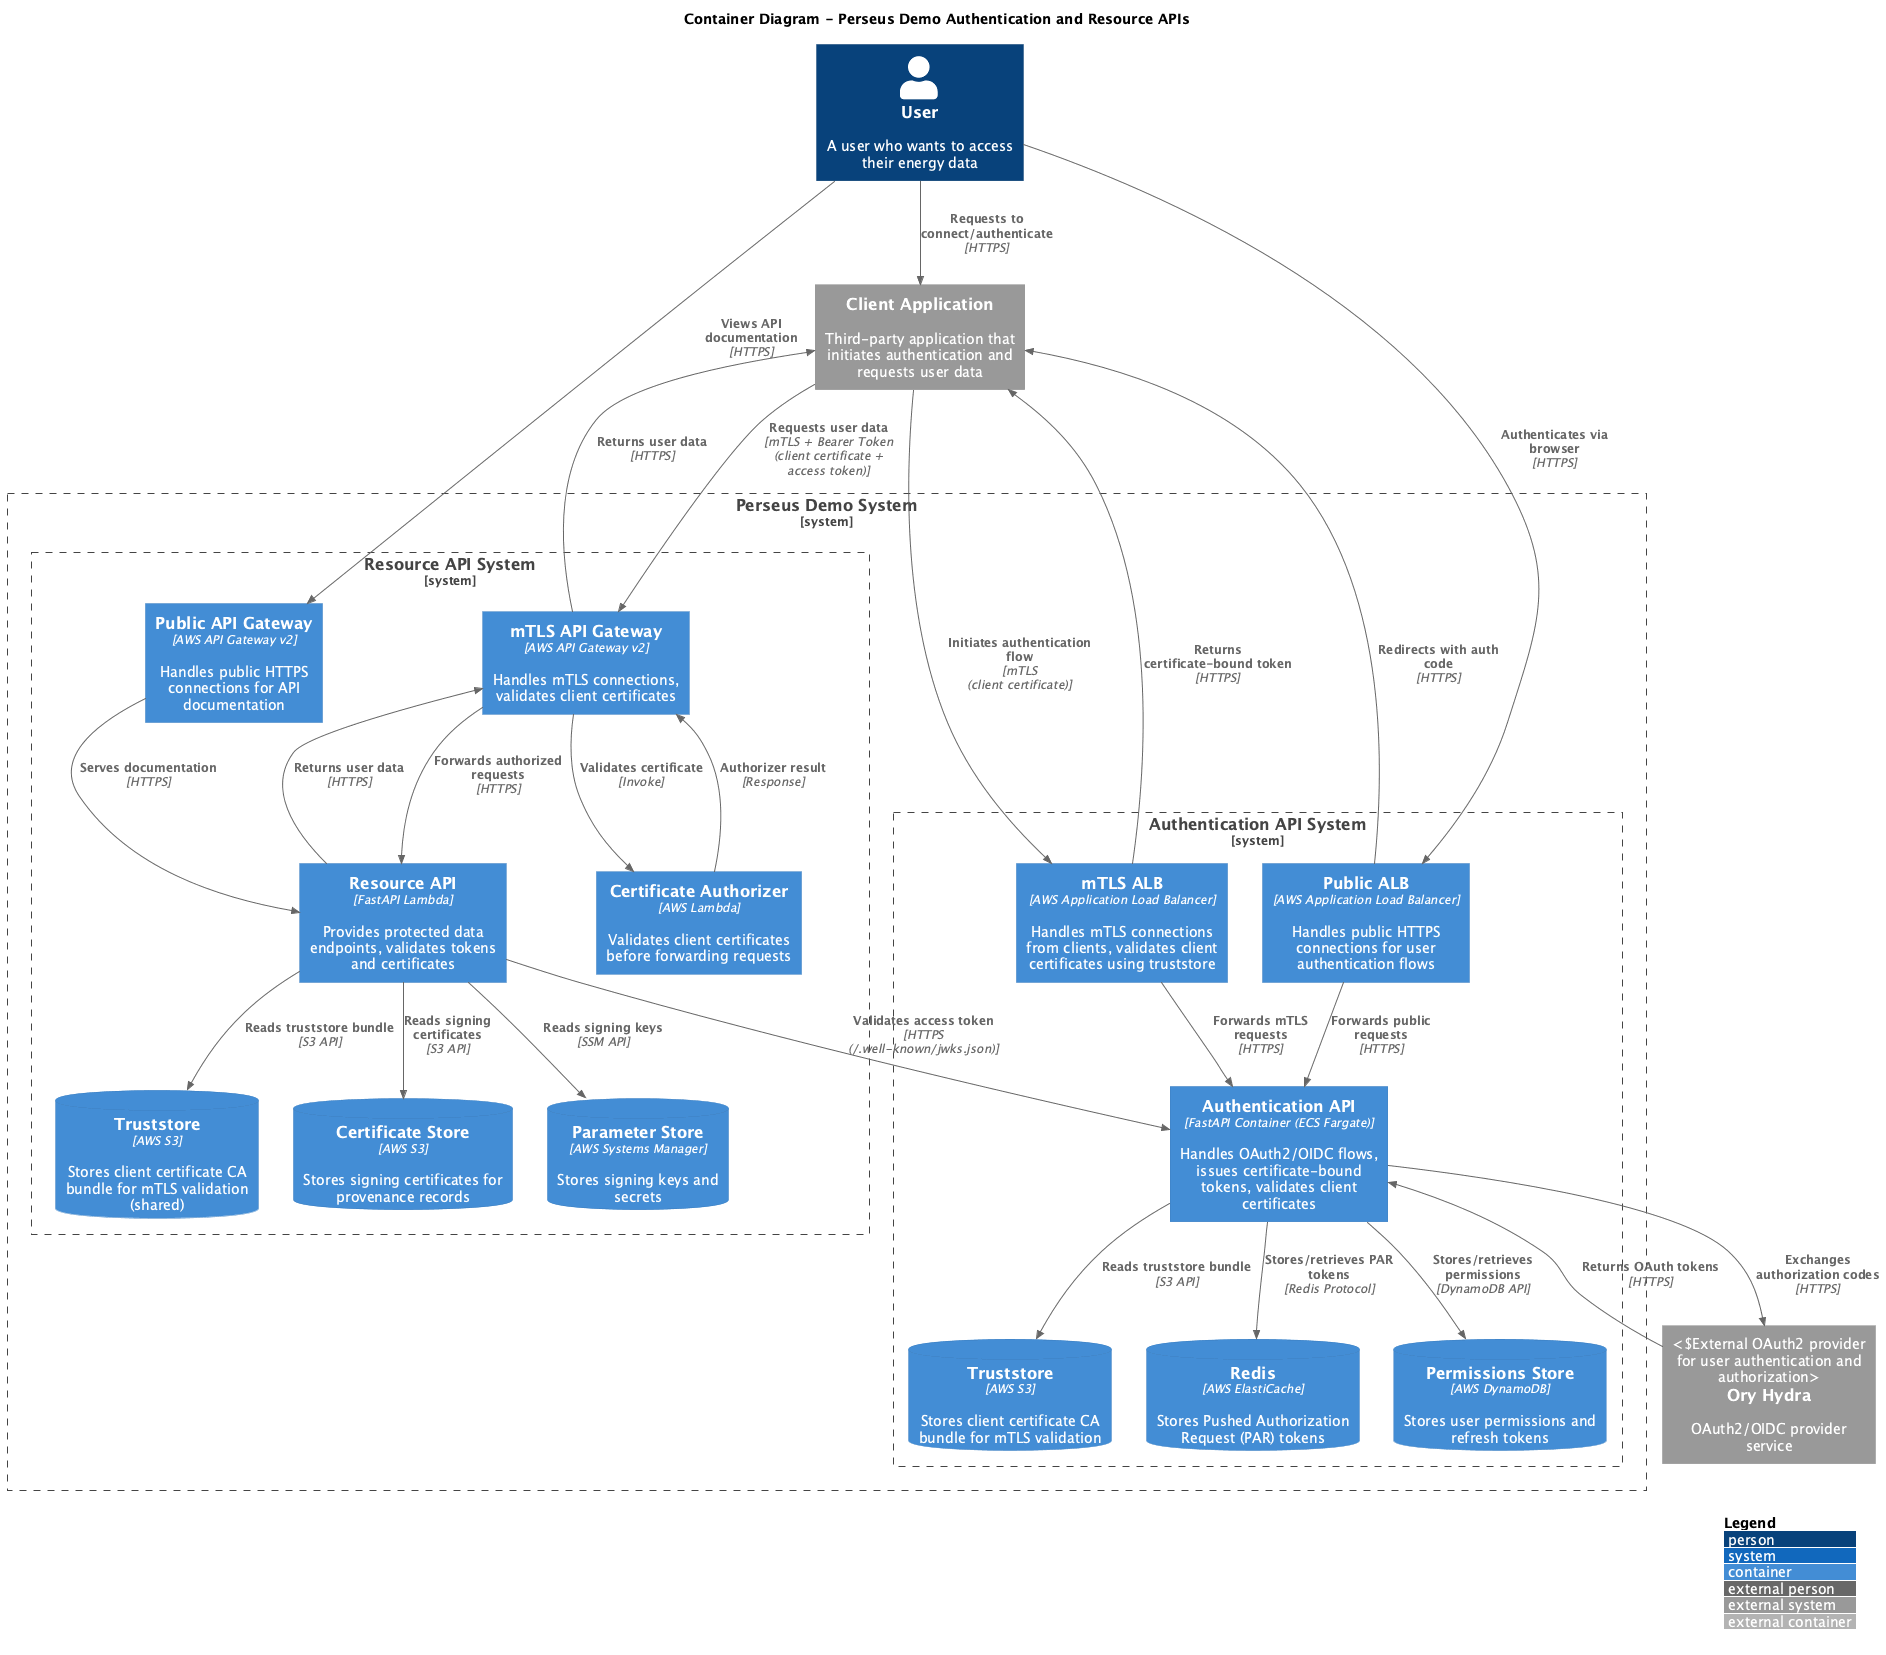
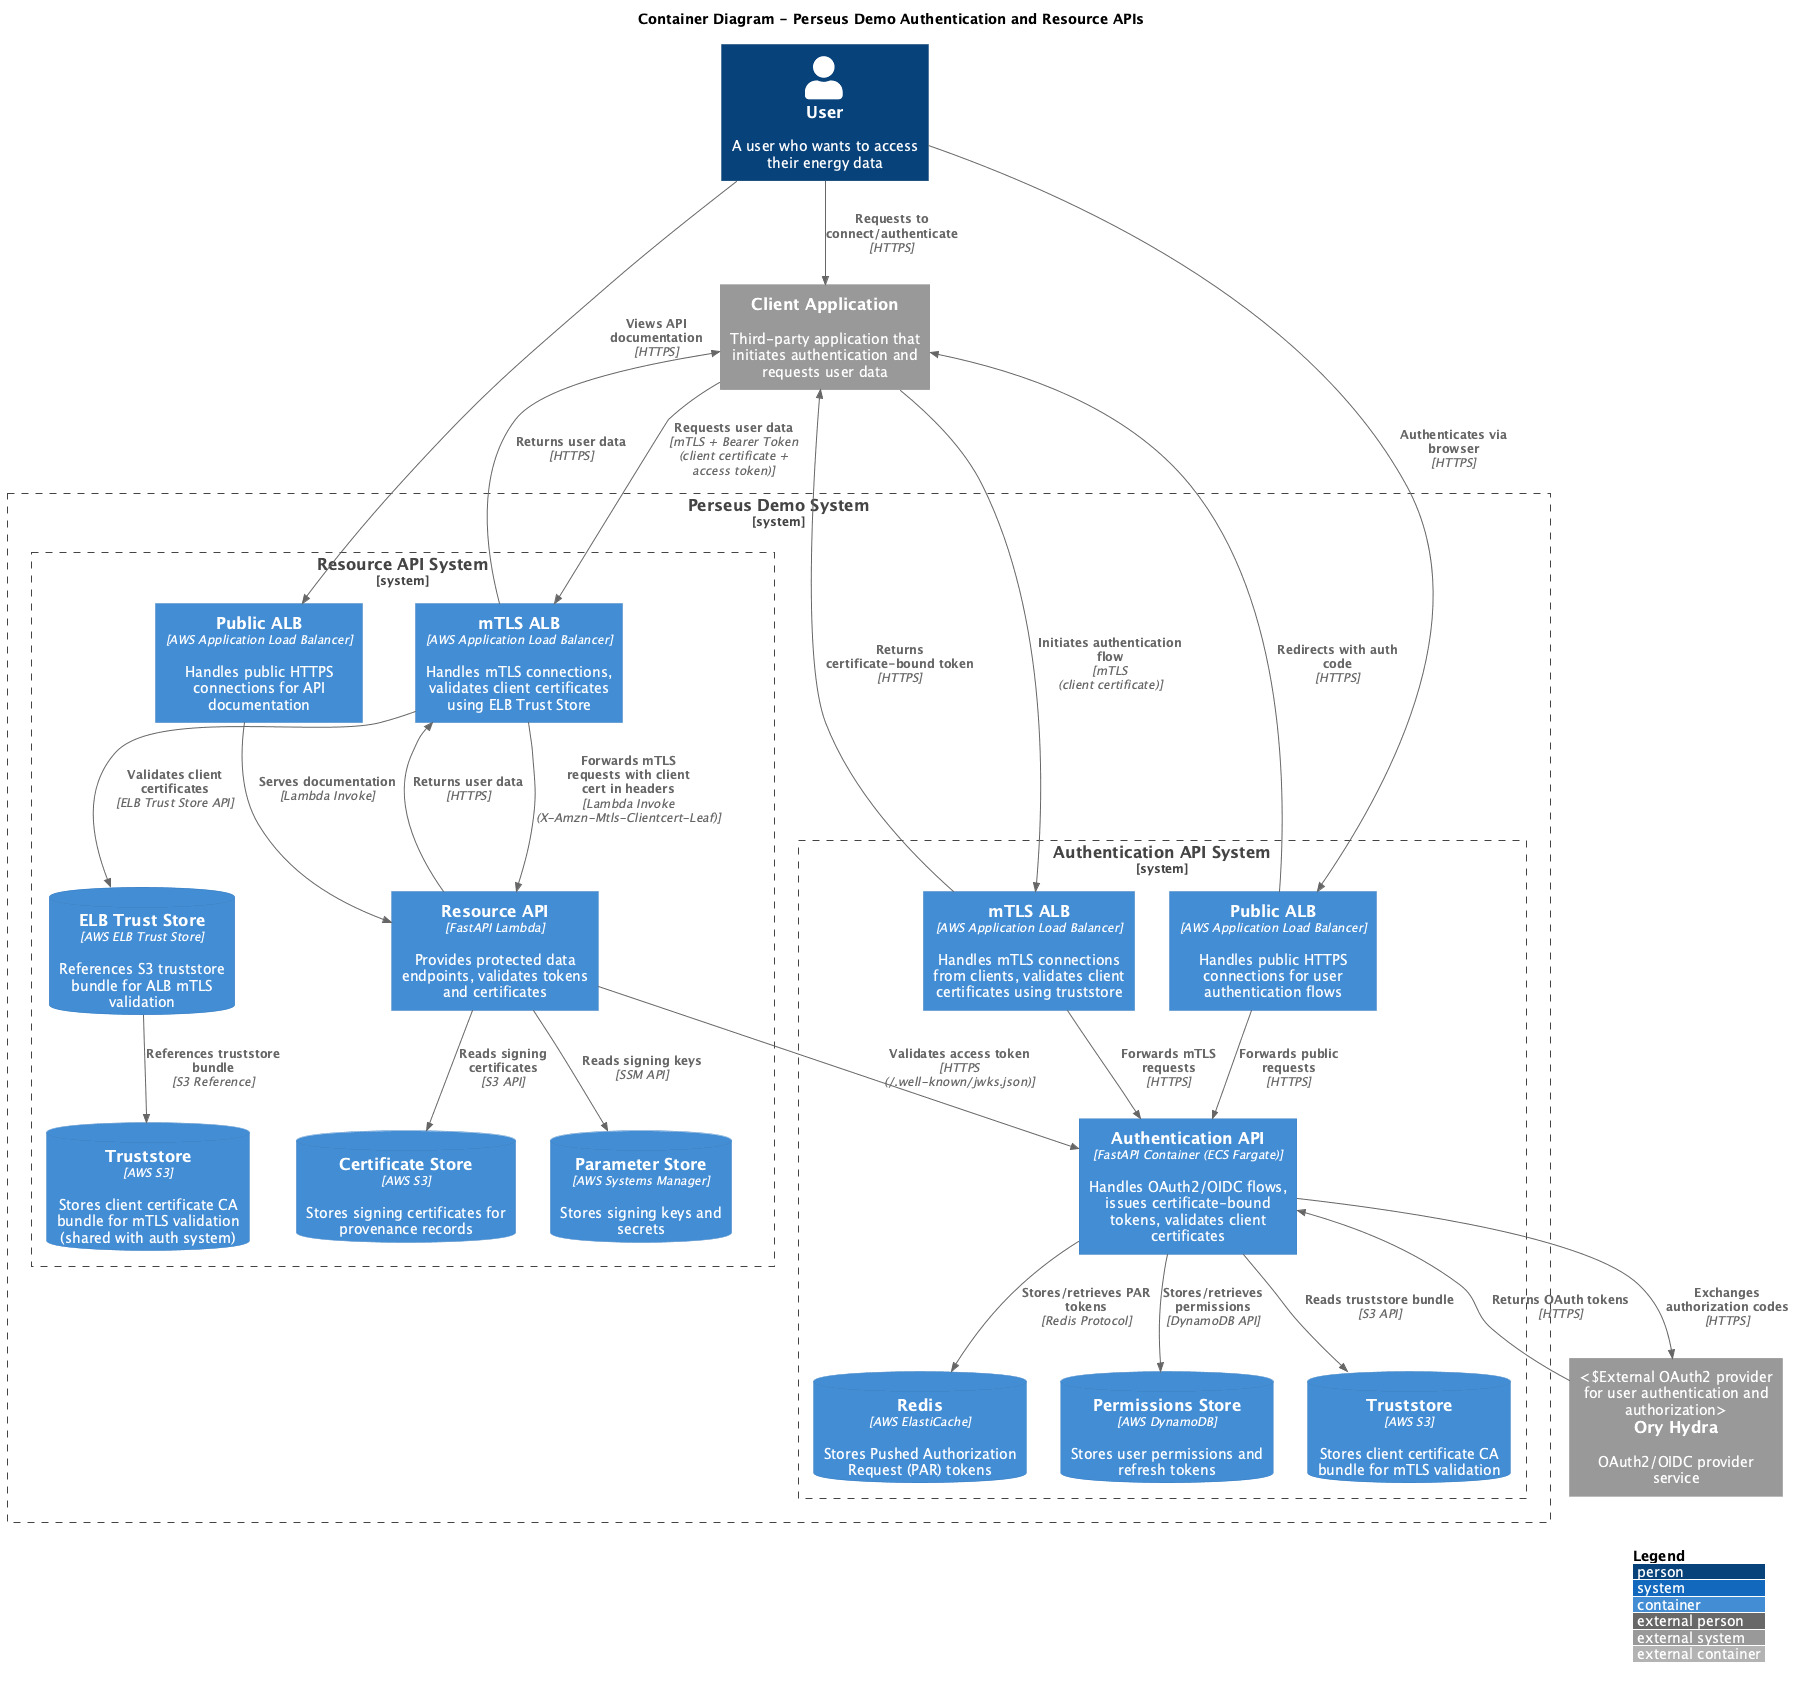
Readme updates and tidy code - Remove unused docs-api deployment - Update resource readme to reflect new architecture - Update c4 models for resource deployment

diff --git a/resource/cdk/README.md b/resource/cdk/README.md
@@ -6,10 +6,11 @@ This directory contains the CDK deployment for the Perseus Resource Service, whi
 
 The deployment creates:
 
-- **API Gateway** with mTLS authentication and custom domain
-- **Lambda Function** running the FastAPI application
-- **Lambda Authorizer** for certificate validation
+- **Application Load Balancer (ALB)** with mTLS authentication and custom domain
+- **Lambda Function** running the FastAPI application (targeted by ALB)
+- **ELB Trust Store** for mTLS certificate validation
 - **S3 Bucket** for truststore storage
+- **VPC** with public subnets for ALB
 - **Route53** DNS records
 - **IAM roles and policies** for secure access
 
@@ -25,7 +26,7 @@ The deployment creates:
 ### Development Environment
 
 ```bash
-cd resource/deployment
+cd resource/cdk
 pip install -r requirements.txt
 cdk deploy --context deployment_context=dev
 ```
@@ -33,7 +34,7 @@ cdk deploy --context deployment_context=dev
 ### Production Environment
 
 ```bash
-cd resource/deployment
+cd resource/cdk
 pip install -r requirements.txt
 cdk deploy --context deployment_context=prod
 ```
@@ -58,10 +59,10 @@ The Lambda function is configured with the following environment variables:
 
 ## Certificate Flow
 
-1. Client presents mTLS certificate to API Gateway
-2. API Gateway validates certificate against truststore
-3. Lambda authorizer extracts certificate information
-4. Certificate PEM is passed to FastAPI Lambda via headers
+1. Client presents mTLS certificate to ALB
+2. ALB validates certificate against ELB Trust Store (which references S3 truststore bundle)
+3. ALB extracts certificate information and passes it to Lambda via HTTP headers
+4. Certificate PEM is passed to FastAPI Lambda via `X-Amzn-Mtls-Clientcert-Leaf` header
 5. FastAPI application validates certificate and OAuth token
 6. Energy data is returned with provenance records
 
